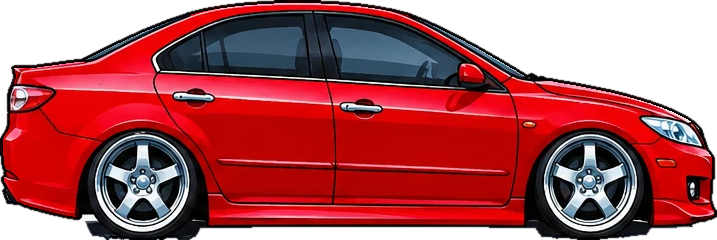
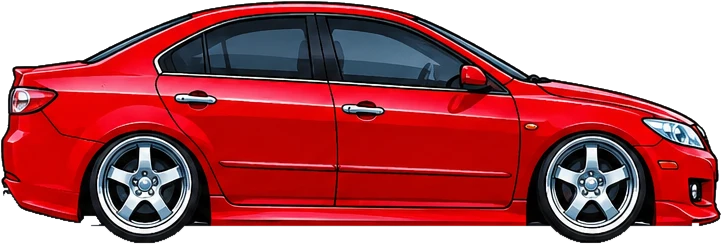
Mazda 6: ручная вырезка сбоку — шины целые, без тени, клочков и щелей у арок (владелец: «плохо вырезал мазду»)
Claude-Session: https://claude.ai/code/session_011h7oDPmmegoivb4yRZ71Zj

diff --git a/reels/perekupy/toon/series60/props69.js b/reels/perekupy/toon/series60/props69.js
@@ -5,7 +5,7 @@ const POLK = { jacket: "#3f5a3a", pants: "#2f3f2a", hair: "#c8c8c8", mustache: t
 const LNC = html => html.replaceAll("#8e1f3a", "#fbf6f0").replaceAll("#5c1426", "#e0d6cc").replaceAll("#2c3e66", "#fbf6f0")
   .replaceAll('fill="#ff3b30" stroke="#151515" stroke-width="4" transform="rotate(-20', 'fill="#ffffff" stroke="#151515" stroke-width="4" transform="rotate(-20');
 const W24 = "w124/w124_side.png", MZ6 = "mazda6/mazda6_side_r.png";
-Object.assign(CINE.SIZES, { [W24]: [732, 233], [MZ6]: [717, 240] });
+Object.assign(CINE.SIZES, { [W24]: [732, 233], [MZ6]: [722, 244] });
 const TITLE = (a, b) => `<div style="position:absolute;left:0;right:0;top:300px;text-align:center;font-family:Unbounded;font-weight:900;line-height:1;letter-spacing:-3px;z-index:50">
   <span style="display:inline-block;padding:10px 28px 18px;border:8px solid #151515;border-radius:22px;box-shadow:0 12px 0 #151515;font-size:82px;background:#ffd23f;color:#151515;transform:rotate(-3deg)">${a}</span><br>
   <span style="display:inline-block;padding:10px 28px 18px;border:8px solid #151515;border-radius:22px;box-shadow:0 12px 0 #151515;font-size:80px;background:#ff3b30;color:#fff;margin-top:26px;transform:rotate(2deg)">${b}</span></div>`;

diff --git a/reels/perekupy/kit/img/mazda6/cut_side_r.py b/reels/perekupy/kit/img/mazda6/cut_side_r.py
@@ -1,0 +1,46 @@
+# Mazda 6 сбоку мордой вправо — ручная вырезка из листа владельца (15.11, после «ты плохо вырезал мазду»):
+# 1) белый фон — заливка от краёв кадра по почти-белым пикселям; 2) тень под машиной (серо-голубая, светлее контура) —
+# ниже линии порогов убираем всё, кроме кругов колёс и чёрного контура/красного; 3) оставляем одну (самую большую) связную область;
+# 4) кайма: край на 1 пиксель внутрь, светлые полупрозрачные пиксели по краю — убираем.
+import numpy as np
+from PIL import Image
+from scipy import ndimage
+X0, Y0, X1, Y1 = 805, 345, 1536, 616
+src = np.asarray(Image.open("source.webp").convert("RGB")).astype(int)[Y0:Y1, X0:X1]
+h, w = src.shape[:2]
+r, g, b = src[..., 0], src[..., 1], src[..., 2]
+lum, sat = src.mean(-1), src.max(-1) - src.min(-1)
+white = (lum > 212) & (sat < 28)
+lab, n = ndimage.label(white)
+edge = set(lab[0]) | set(lab[-1]) | set(lab[:, 0]) | set(lab[:, -1]); edge.discard(0)
+bg = np.isin(lab, list(edge))
+yy, xx = np.mgrid[:h, :w]; Y, X = yy + Y0, xx + X0
+wheel = np.zeros((h, w), bool); well = np.zeros((h, w), bool)
+for cx, cy, rr in ((952, 548, 55), (1398, 548, 55)):
+    wheel |= (X - cx) ** 2 + (Y - cy) ** 2 < rr ** 2            # шина
+    well |= ((X - cx) ** 2 + (Y - cy) ** 2 < (rr + 10) ** 2) & (Y < 586)   # ниша арки — только выше порогов
+red = (r > 120) & (r - g > 55) & (r - b > 55)
+ink = lum < 48
+shadow = (Y >= 574) & ~wheel & ~red & ~ink
+shadow |= (Y >= 586) & ~wheel                      # ниже порогов — только круги шин
+car = ~bg & ~shadow
+# вне колёс: ничего ниже красного кузова (+3 px контура) — хвостики тени под бамперами
+for x in range(w):
+    if (wheel | well)[:, x].any(): continue
+    ys = np.nonzero(red[:, x] & car[:, x])[0]
+    if len(ys): car[ys.max() + 4:, x] = False
+car = ndimage.binary_closing(car, structure=np.ones((1, 7))) & ~(bg & ~well & (Y < 574))   # щели в 1–3 px у арок
+lab2, n2 = ndimage.label(car)
+sizes = ndimage.sum(car, lab2, range(1, n2 + 1)); car = lab2 == (1 + int(np.argmax(sizes)))
+car = ndimage.binary_fill_holes(car) & ~(bg & ~ndimage.binary_fill_holes(car))
+# кайма: светлые пиксели на краю (смесь с белым фоном)
+for _ in range(2):
+    border = car & ~ndimage.binary_erosion(car)
+    car &= ~(border & (lum > 175) & (sat < 60))
+alpha = ndimage.gaussian_filter(car.astype(float), .55)
+alpha = np.where(car, np.maximum(alpha, .5), alpha * .6)
+out = np.zeros((h, w, 4), np.uint8); out[..., :3] = src; out[..., 3] = (alpha * 255).clip(0, 255)
+out[out[..., 3] == 0, :3] = 0
+ys, xs = np.nonzero(out[..., 3] > 10)
+Image.fromarray(out[ys.min():ys.max() + 1, xs.min():xs.max() + 1]).save("mazda6_side_r.png")
+print("размер", xs.max() - xs.min() + 1, ys.max() - ys.min() + 1)
